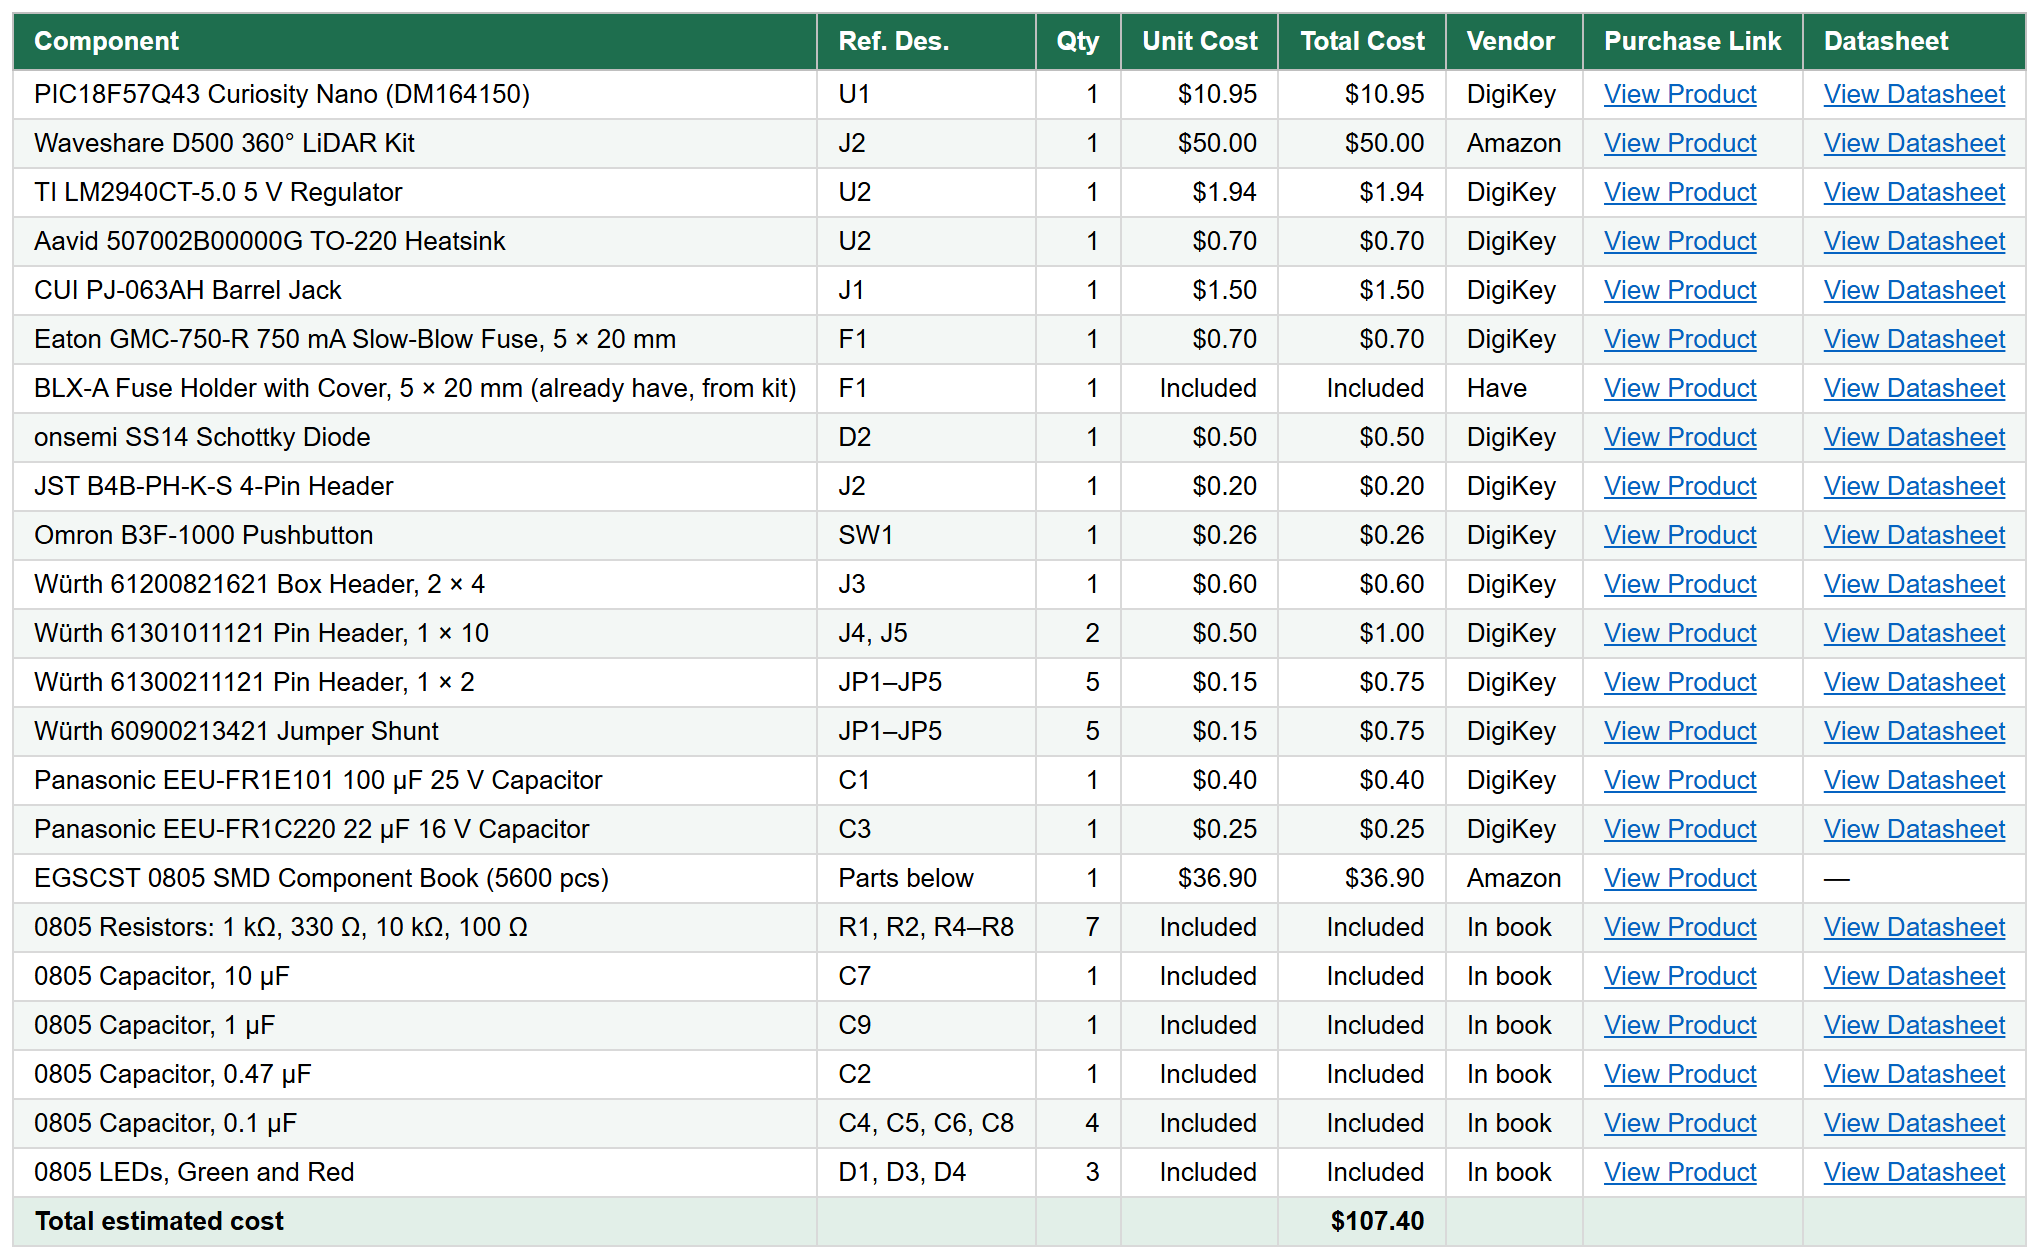
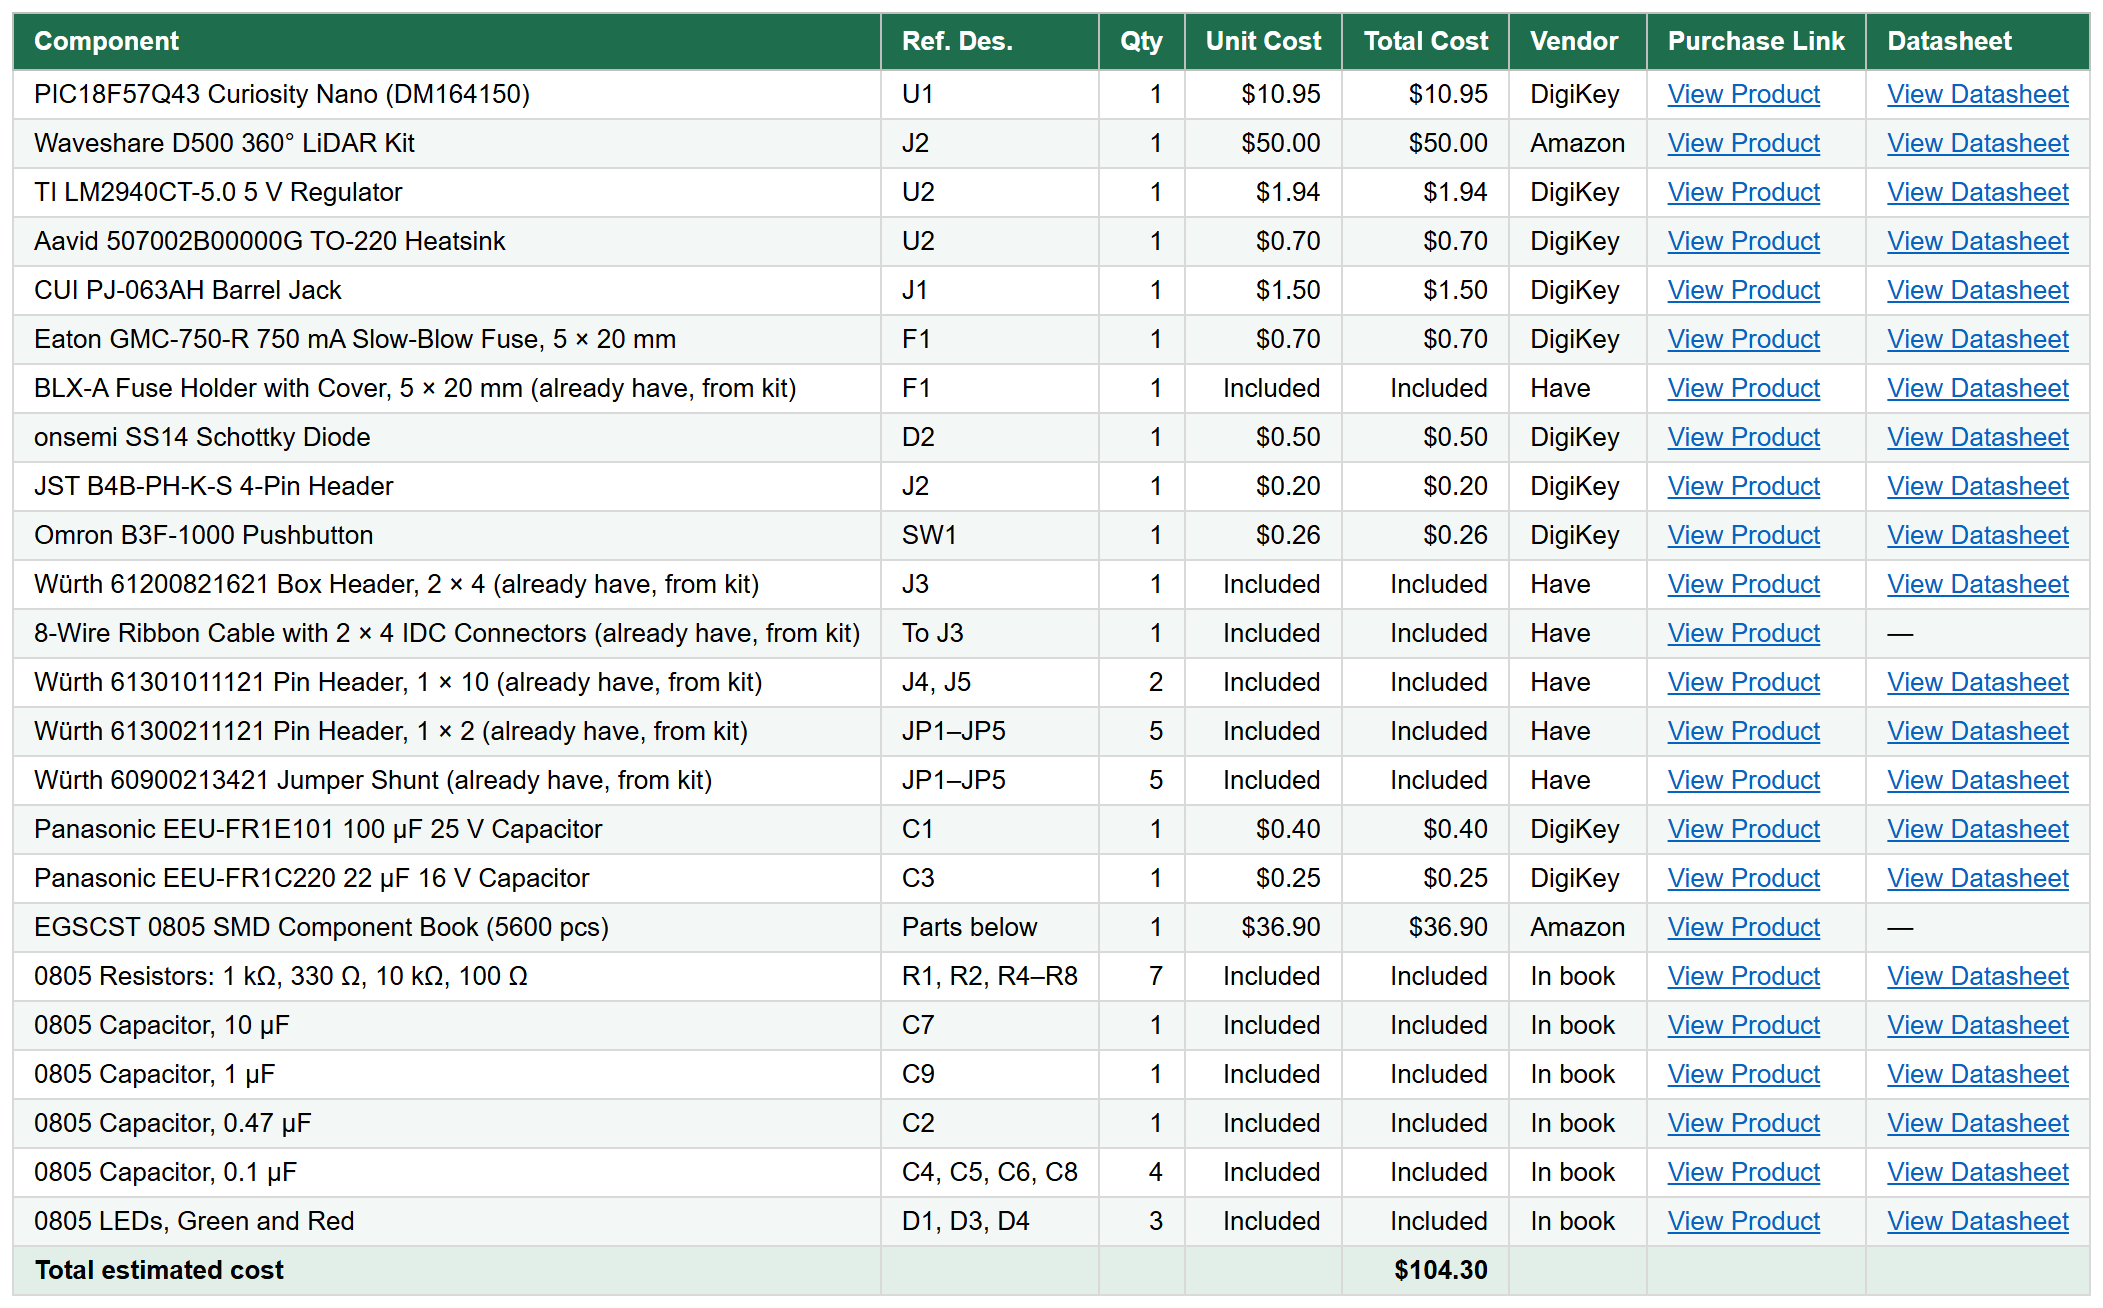
Mark team ribbon cable, headers, and jumpers as already on hand

Changed region(s): [[0.0, 0.0, 0.9887, 0.9913]]

diff --git a/docs/03-BOM/BOM.md b/docs/03-BOM/BOM.md
@@ -31,10 +31,11 @@ Download the [Excel file](BOM_LiDAR_LK.xlsx).
 | onsemi SS14 Schottky Diode | D2 | 1 | &#92;&#36;0.50 | &#92;&#36;0.50 | DigiKey | [View Product](https://www.digikey.com/en/products/detail/onsemi/SS14/965474) | [View Datasheet](https://www.onsemi.com/pdf/datasheet/ss14-d.pdf) |
 | JST B4B-PH-K-S 4-Pin Header | J2 | 1 | &#92;&#36;0.20 | &#92;&#36;0.20 | DigiKey | [View Product](https://www.digikey.com/en/products/result?keywords=B4B-PH-K-S(LF)(SN)) | [View Datasheet](https://www.jst-mfg.com/product/pdf/eng/ePH.pdf) |
 | Omron B3F-1000 Pushbutton | SW1 | 1 | &#92;&#36;0.26 | &#92;&#36;0.26 | DigiKey | [View Product](https://www.digikey.com/en/products/result?keywords=B3F-1000) | [View Datasheet](https://omronfs.omron.com/en_US/ecb/products/pdf/en-b3f.pdf) |
-| Würth 61200821621 Box Header, 2 × 4 | J3 | 1 | &#92;&#36;0.60 | &#92;&#36;0.60 | DigiKey | [View Product](https://www.digikey.com/en/products/result?keywords=61200821621) | [View Datasheet](https://www.we-online.com/components/products/datasheet/61200821621.pdf) |
-| Würth 61301011121 Pin Header, 1 × 10 | J4, J5 | 2 | &#92;&#36;0.50 | &#92;&#36;1.00 | DigiKey | [View Product](https://www.digikey.com/en/products/result?keywords=61301011121) | [View Datasheet](https://www.we-online.com/components/products/datasheet/61301011121.pdf) |
-| Würth 61300211121 Pin Header, 1 × 2 | JP1–JP5 | 5 | &#92;&#36;0.15 | &#92;&#36;0.75 | DigiKey | [View Product](https://www.digikey.com/en/products/result?keywords=61300211121) | [View Datasheet](https://www.we-online.com/components/products/datasheet/61300211121.pdf) |
-| Würth 60900213421 Jumper Shunt | JP1–JP5 | 5 | &#92;&#36;0.15 | &#92;&#36;0.75 | DigiKey | [View Product](https://www.digikey.com/en/products/result?keywords=60900213421) | [View Datasheet](https://www.we-online.com/components/products/datasheet/60900213421.pdf) |
+| Würth 61200821621 Box Header, 2 × 4 (already have, from kit) | J3 | 1 | Included | Included | Have | [View Product](https://www.digikey.com/en/products/result?keywords=61200821621) | [View Datasheet](https://www.we-online.com/components/products/datasheet/61200821621.pdf) |
+| 8-Wire Ribbon Cable with 2 × 4 IDC Connectors (already have, from kit) | To J3 | 1 | Included | Included | Have | [View Product](https://www.digikey.com/en/products/result?keywords=89108-0101) | Course kit part |
+| Würth 61301011121 Pin Header, 1 × 10 (already have, from kit) | J4, J5 | 2 | Included | Included | Have | [View Product](https://www.digikey.com/en/products/result?keywords=61301011121) | [View Datasheet](https://www.we-online.com/components/products/datasheet/61301011121.pdf) |
+| Würth 61300211121 Pin Header, 1 × 2 (already have, from kit) | JP1–JP5 | 5 | Included | Included | Have | [View Product](https://www.digikey.com/en/products/result?keywords=61300211121) | [View Datasheet](https://www.we-online.com/components/products/datasheet/61300211121.pdf) |
+| Würth 60900213421 Jumper Shunt (already have, from kit) | JP1–JP5 | 5 | Included | Included | Have | [View Product](https://www.digikey.com/en/products/result?keywords=60900213421) | [View Datasheet](https://www.we-online.com/components/products/datasheet/60900213421.pdf) |
 | Panasonic EEU-FR1E101 100 µF 25 V Capacitor | C1 | 1 | &#92;&#36;0.40 | &#92;&#36;0.40 | DigiKey | [View Product](https://www.digikey.com/en/products/result?keywords=EEU-FR1E101) | [View Datasheet](https://industrial.panasonic.com/cdbs/www-data/pdf/RDF0000/ABA0000C1209.pdf) |
 | Panasonic EEU-FR1C220 22 µF 16 V Capacitor | C3 | 1 | &#92;&#36;0.25 | &#92;&#36;0.25 | DigiKey | [View Product](https://www.digikey.com/en/products/result?keywords=EEU-FR1C220) | [View Datasheet](https://industrial.panasonic.com/cdbs/www-data/pdf/RDF0000/ABA0000C1209.pdf) |
 | EGSCST 0805 SMD Component Book (5600 pcs) | Parts below | 1 | &#92;&#36;36.90 | &#92;&#36;36.90 | Amazon | [View Product](https://www.amazon.com/dp/B0DZXQPFHP) | See rows below |
@@ -47,7 +48,7 @@ Download the [Excel file](BOM_LiDAR_LK.xlsx).
 
 </div>
 
-**Total estimated cost: &#92;&#36;107.40**
+**Total estimated cost: &#92;&#36;104.30**
 
 ## Battery Pack
 
